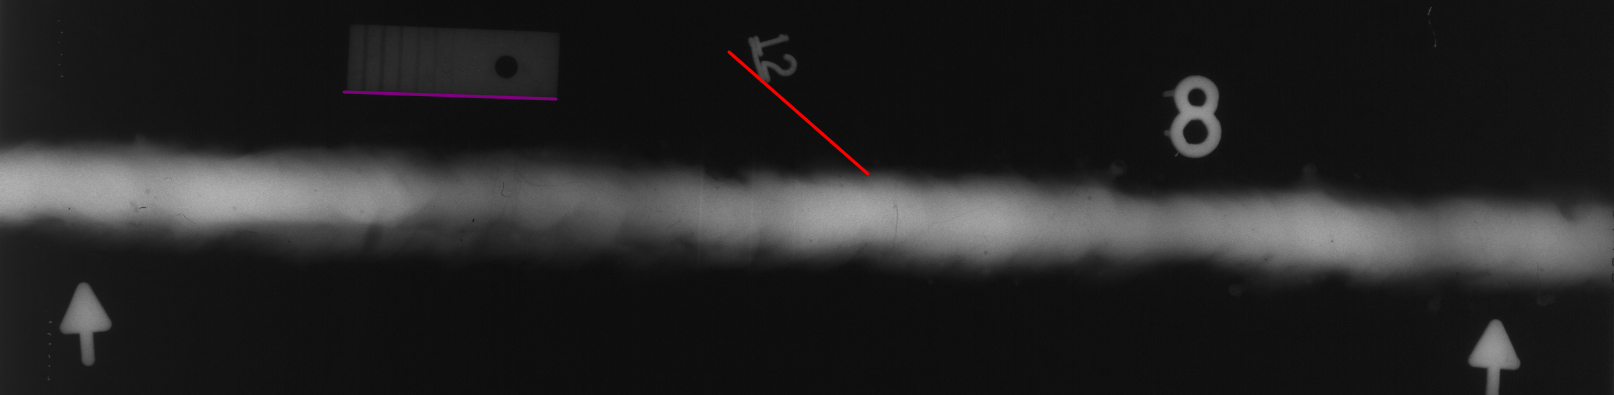
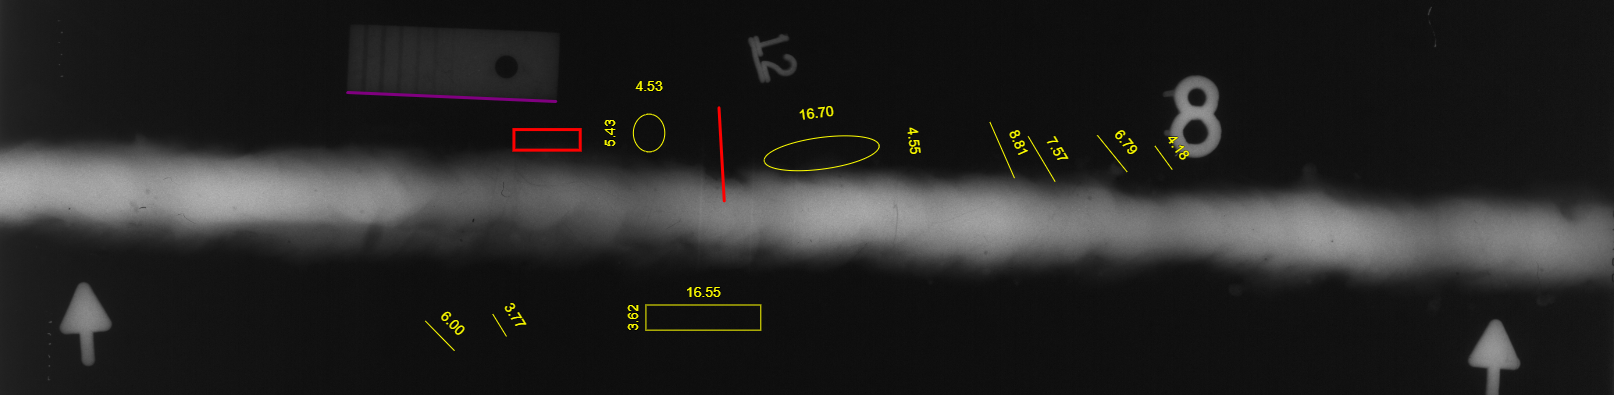
load json annotation

diff --git a/annotation.js b/annotation.js
@@ -61,14 +61,78 @@ annotationJSONInput.addEventListener("change", (event) => {
     const reader = new FileReader();
 
     reader.onload = function(e) {
-        const content = e.target.result;
-        loadAnnotationFromLSON(content); // передача содержимого
+        const text = e.target.result;
+        loadAnnotationFromLSON(text); // передача содержимого
     };
+
+    annotationJSONInput.value = "";
 
     reader.readAsText(file); 
 });
 
-// 
+// функция для работы с контентом загруженного json
+function loadAnnotationFromLSON(text) {
+    try {
+        const data = JSON.parse(text); // парсим JSON
+
+        // загрузили все эллипсы
+        (data["ellipses"]).forEach(element => {
+            ellipses.push(element)
+        });
+        // загрузили все эллипсы3
+        (data["ellipses3"]).forEach(element => {
+            ellipses3.push(element)
+        });
+        // загрузили эталонную линию
+        (data["lines_et"]).forEach(element => {
+            lines_et.push(element)
+        });
+        // загрузили все линии
+        (data["lines"]).forEach(element => {
+            lines.push(element)
+        });
+        // загрузили все измерительные эллипсы
+        (data["measureEllipses"]).forEach(element => {
+            measureEllipses.push(element)
+        });
+        // загрузили все измерительные эллипсы 3
+        (data["measureEllipses3"]).forEach(element => {
+            measureEllipses3.push(element)
+        });
+        // загрузили все измерительные прямоугольники
+        (data["measureRects"]).forEach(element => {
+            measureRects.push(element)
+        });
+        // загрузили все прямоугольники
+        (data["rects"]).forEach(element => {
+            rects.push(element)
+        });
+        // загрузили все линейки
+        (data["rulers"]).forEach(element => {
+            rulers.push(element)
+        });
+        // загрузили шов
+        (data["shov_lines"]).forEach(element => {
+            shov_lines.push(element)
+        });
+
+        drawAllShovLines()
+        drawAllLines()
+        drawAllLinesEt()
+        drawAllRulers()
+        drawAllMeasureEllipses()
+        drawAllRects()
+        drawAllEllipses()
+        drawAllEllipses3()
+        drawAllMeasureEllipses3()
+        drawAllMeasureRects()
+        drawAllComments()
+        
+
+    } catch (error) {
+        console.error("Ошибка парсинга JSON:", error);
+    }
+}
 
 // функция для работы с добавлением дефектов в аннотацию
 function defectWindow() {
@@ -147,7 +211,6 @@ function redraw_defects() {
     const defects_div = document.querySelector(".defects")
     defects_div.innerHTML = ""
     new_inner = ""
-    console.log(defects)
     defects.forEach(element => {
         new_inner += '<div class="defect" data-defect-id="' + element[2] + '" data-figure="' + element[0] + '"><p>' + element[3] + '</p><p>' + (element[1][0]).toFixed(2) + ' x ' + (element[1][1]).toFixed(2) + ' мм</p></div>'
     });

diff --git a/index.js b/index.js
@@ -8,7 +8,7 @@ const deleteBtn = document.querySelector('#deleteBtn')
 let original_image
 let isDrawing = false
 let len_etalon = 0
-let mmToPx_ratio = 1
+let mmToPx_ratio = 0.0423
 let brightness = 0
 let contrast = 0
 
